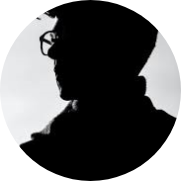
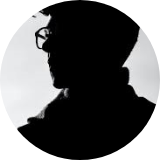
added in 23082021

diff --git a/src/components/snippets/Pulse.js b/src/components/snippets/Pulse.js
@@ -37,7 +37,7 @@ function Pulse() {
                     </Col>
                 </Row>
 
-                <Row className="mb-80 justify-content-between align-items-center">
+                <Row className="justify-content-between align-items-center">
                     <Col lg={5} sm={12} className="mb-lg-0 mb-4 order-lg-2 text-center">
                         <img src={Batsman} alt="pulse graph" className="img-fluid mx-auto" />
                     </Col>
@@ -52,7 +52,7 @@ function Pulse() {
                     </Col>
                 </Row>
 
-                <Row className="align-items-center pt-xl-5 justify-content-between">
+                <Row className="align-items-center d-none pt-xl-5 justify-content-between">
                     <Col xs={12} className="d-block mt-md-5 d-xl-none">
                         <div className="text-center mb-4 text-uppercase d-flex justify-content-center">
                             <div className=" border-title">

diff --git a/src/assets/style.css b/src/assets/style.css
@@ -524,19 +524,30 @@ h6{
 }
 .team-area{
     text-align: center;
-    padding: 120px 0 50px;
+    padding: 60px 0 50px;
 }
 .team-member{
     margin-bottom: 10px;
 }
-.team-member > img{
-    width: 180px;
-    height: 180px;
-    object-fit: cover;
+.team-pic{
+    margin: auto;
+    width: 190px;
+    height: 190px;
+    display: block;
+    position: relative;
     margin-bottom: 20px;
-    border-radius: 180px;
-    object-position: center;
-    border: 10px solid #F30C46;
+    background: #000000 url('./images/team-circle.png') no-repeat center center / contain;
+}
+.team-pic > img{
+    left: 0;
+    right: 0;
+    top: auto;
+    bottom: 10px;
+    margin: auto;
+    width: 170px;
+    height: 170px;
+    position: absolute;
+    border-radius: 150px;
 }
 .team-member h3{
     font-size: 21px;

diff --git a/src/components/snippets/TeamMember.js b/src/components/snippets/TeamMember.js
@@ -6,7 +6,7 @@ import LinkedInIcon from '../../assets/images/Linkedin.png';
 function TeamMember(props) {
     return (
         <div className="team-member d-flex flex-column align-items-center">
-            <img src={props.Avatar} alt="avatar" />
+            <div className="team-pic"><img src={props.Avatar} alt="avatar" /></div>
             <h3>{props.Name}</h3>
             <p>{props.Designation}</p>
             <a href={props.LinkedIn}><img src={LinkedInIcon} alt="linkedIn icon" /></a>

diff --git a/src/assets/responsive.css b/src/assets/responsive.css
@@ -379,11 +379,15 @@
     .team-area{
         padding: 40px 0;
     }
-    .team-member > img{
-        width: 140px;
-        height: 140px;
-        border-width: 8px;
+    .team-pic{
+        width: 130px;
+        height: 130px;
         margin-bottom: 16px;
+    }
+    .team-pic > img{
+        width: 115px;
+        height: 115px;
+        bottom: 7px;
     }
     .team-member{
         margin-bottom: 0;
